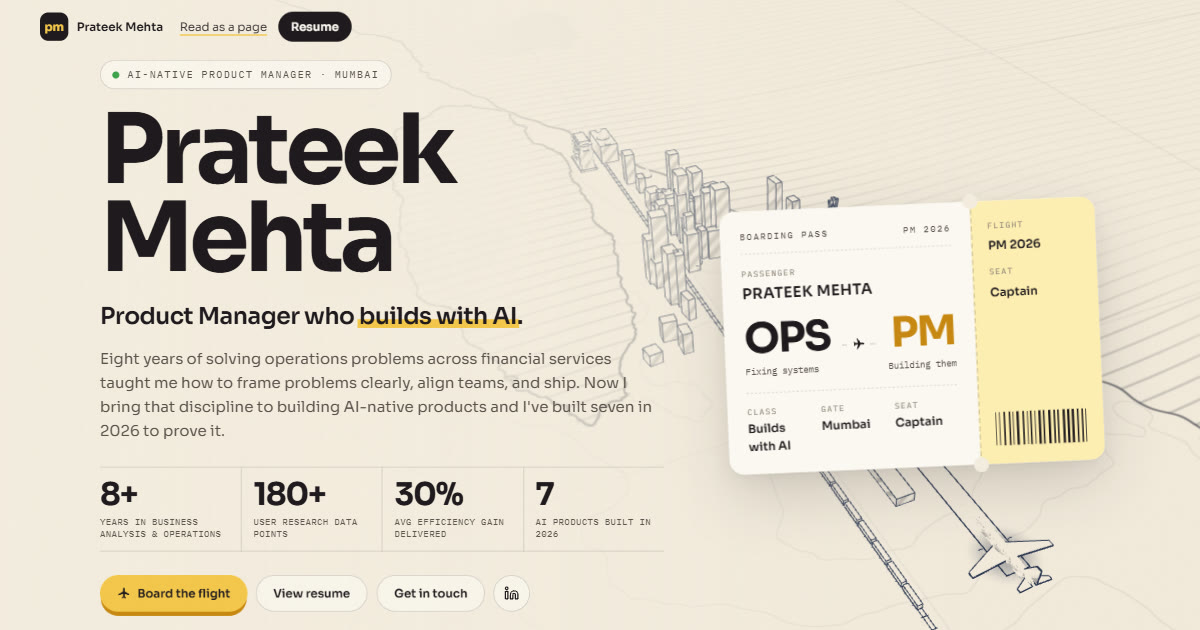
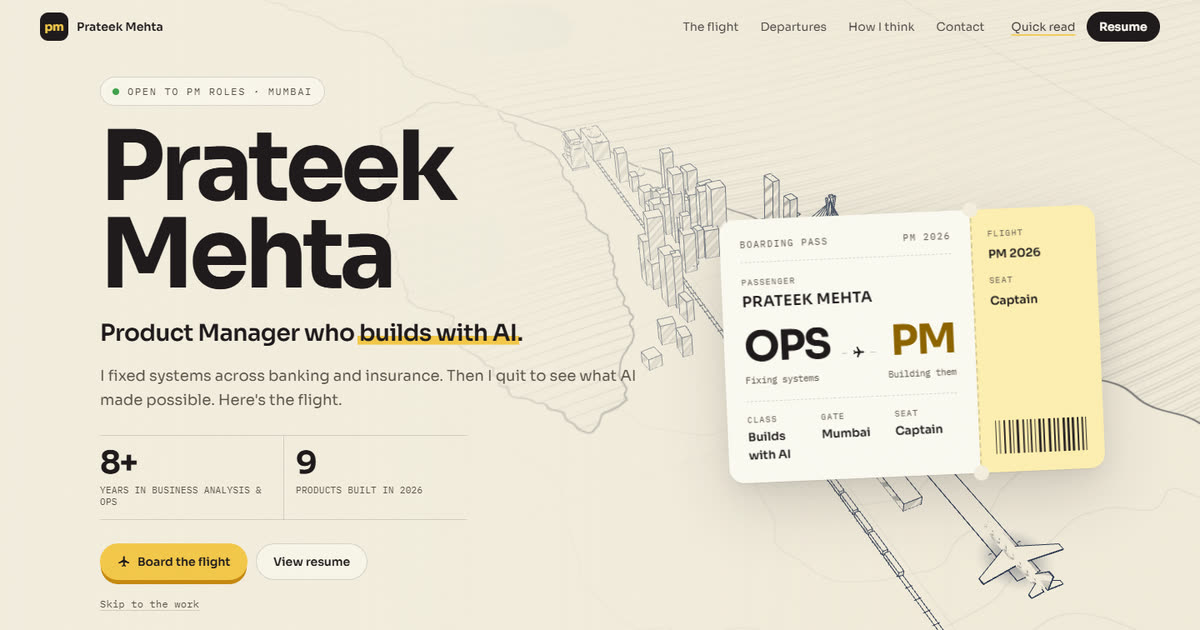
feat(copy): count 9 products built in 2026
The stat becomes "9 / Products built in 2026" (RepLedger has no AI in
it, so the label drops "AI"), along with the board title, the thesis
line, the site description and the docs. The share image is re-shot
from the current hero, which also replaces its stale intro copy.

diff --git a/site/src/content.js b/site/src/content.js
@@ -8,7 +8,7 @@ export const SITE = {
   base: '/my-portfolio/',
   title: 'Prateek Mehta | Product Manager who builds with AI',
   description:
-    'Prateek Mehta, Product Manager in Mumbai who builds with AI. Fly through eight years of operations work and the seven AI products built in 2026.',
+    'Prateek Mehta, Product Manager in Mumbai who builds with AI. Fly through eight years of operations work and the nine products built in 2026.',
   url: 'https://proisback.github.io/my-portfolio/',
 };
 
@@ -33,7 +33,7 @@ export const STATS = [
   { value: '8+', label: 'Years in business analysis & ops', hero: true },
   { value: '180+', label: 'Research data points' },
   { value: '30%', label: 'Avg efficiency gain' },
-  { value: '7', label: 'AI products built in 2026', hero: true },
+  { value: '9', label: 'Products built in 2026', hero: true },
 ];
 
 // The hero boarding pass. Design copy, no facts beyond the profile.
@@ -197,7 +197,7 @@ export const SEGMENTS = [
     label: 'Mumbai, tonight',
     thesis: true,
     title: 'Stop fixing systems. Start building them.',
-    body: ['Seven built in 2026. All boarding now.'],
+    body: ['Nine built in 2026. All boarding now.'],
   },
 ];
 

diff --git a/site/src/render/board.js b/site/src/render/board.js
@@ -1,4 +1,4 @@
-// Departures board: a split-flap airport board listing the seven products.
+// Departures board: a split-flap airport board listing the products.
 // Every word is in the HTML; src/board.js turns the [data-flap] spans into
 // flap cells and src/pass.js plays the boarding pass on click.
 import { PRODUCTS, CITIES } from '../content.js';
@@ -90,7 +90,7 @@ export function board() {
   <div class="section-inner">
     <header class="board-intro">
       <p class="section-label">Now boarding</p>
-      <h2 class="section-title board-title" id="board-title">${PRODUCTS.length} AI products built in 2026</h2>
+      <h2 class="section-title board-title" id="board-title">${PRODUCTS.length} products built in 2026</h2>
       <p class="board-hint mono">Pick a flight to read the case study</p>
     </header>
     <div class="board">

diff --git a/CLAUDE.md b/CLAUDE.md
@@ -2,7 +2,7 @@
 
 ## What this is
 
-A personal portfolio website for Prateek Mehta: a scroll-driven 3D "flight" over his real career cities (Mumbai → Jamshedpur → Chennai → Mumbai) that turns from blueprint ink into full color as it reaches 2026, followed by a split-flap departures board of his 7 AI products. Two audiences: PM hiring managers first, prospective site-build clients second (a small "I build sites like this" section, no price anywhere).
+A personal portfolio website for Prateek Mehta: a scroll-driven 3D "flight" over his real career cities (Mumbai → Jamshedpur → Chennai → Mumbai) that turns from blueprint ink into full color as it reaches 2026, followed by a split-flap departures board of his 9 products. Two audiences: PM hiring managers first, prospective site-build clients second (a small "I build sites like this" section, no price anywhere).
 
 The live site lives in **`site/`** (Vite + Three.js + GSAP, vanilla ES modules, no React). The old hand-written site at the repo root (`index.html`, `styles-v3.css`, `script.js`) is kept as **legacy** and is no longer deployed. Design spec and plan: `docs/superpowers/specs/2026-10-09-flight-portfolio-design.md`, `docs/superpowers/plans/2026-10-09-flight-portfolio.md`.
 

diff --git a/site/README.md b/site/README.md
@@ -1,6 +1,6 @@
 # Prateek Mehta: the flight portfolio
 
-A scroll-driven 3D flight over the cities that shaped a career (Mumbai → Jamshedpur → Chennai → Mumbai), drawn in blueprint ink that fills with color as it reaches 2026, then a split-flap departures board of seven AI products.
+A scroll-driven 3D flight over the cities that shaped a career (Mumbai → Jamshedpur → Chennai → Mumbai), drawn in blueprint ink that fills with color as it reaches 2026, then a split-flap departures board of nine products.
 
 Built with Vite, Three.js and GSAP. No model files: every building, the plane and the marigold AI sidekick are generated in code, so the whole 3D experience is about 200 KB gzipped.
 
